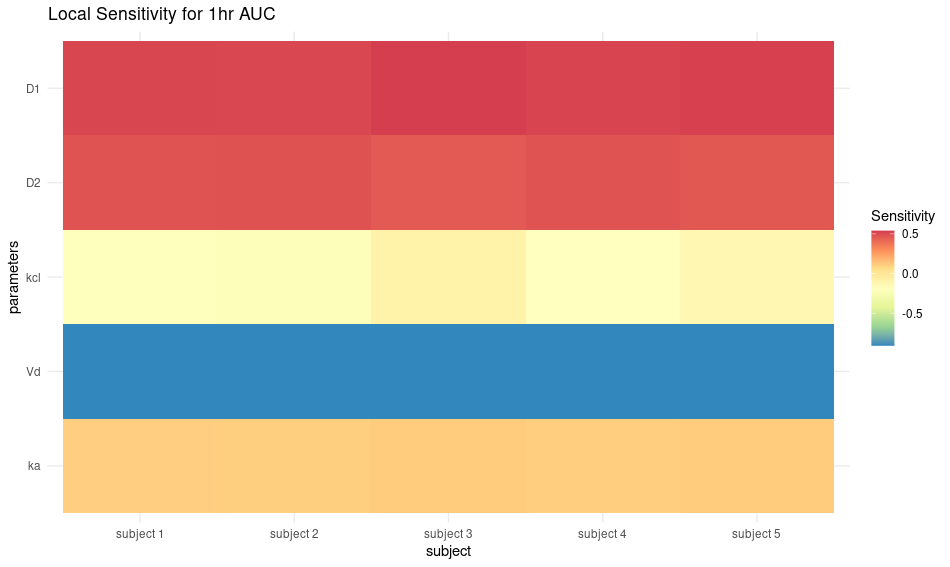
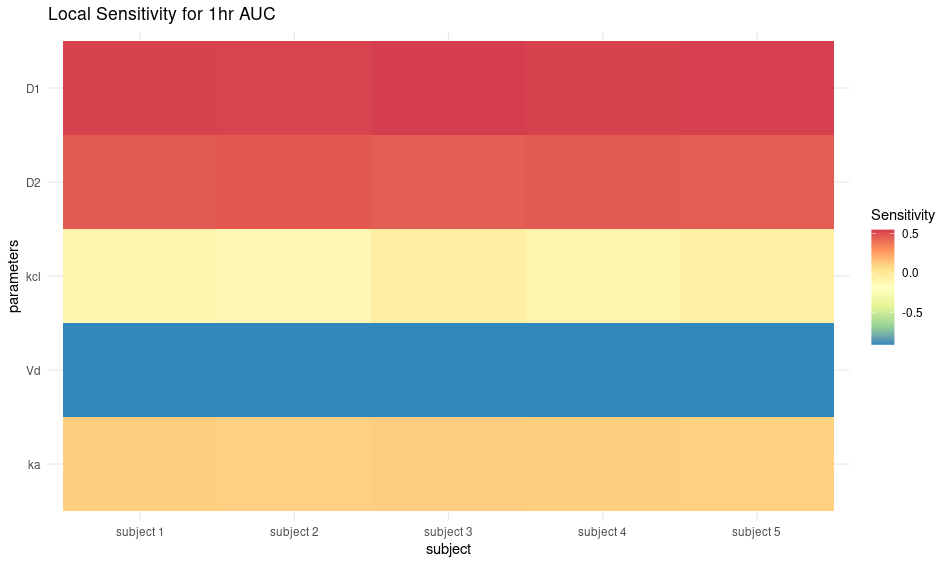
fix q2 based on updates to assignment

Changed region(s): [[0.9158, 0.3611, 0.9768, 0.4212], [0.0305, 0.3009, 0.0611, 0.331]]

diff --git a/hw/hw3/q2_script.m b/hw/hw3/q2_script.m
@@ -1,9 +1,11 @@
+%%% REQUIRES q1_script to be run
+
 %% AUC for 14 hrs
 subjects = 5;
 
 AUC14HRS = zeros(5, 5);
 for subject = 1:subjects
-    p = table_1e(:, subject);
+    p = table_1f(:, subject);
     AUC14HRS(1, subject) = local_sens(1, 175*1.1, 310, p);
     AUC14HRS(2, subject) = local_sens(1, 175, 310*1.1, p);
     p_kcl = p; p_kcl(2) = p(2)*1.1; 
@@ -18,7 +20,7 @@ FILE_NAME = 'q2a'; writematrix(AUC14HRS, FILE_NAME);
 
 AUC1HRS = zeros(5, 5);
 for subject = 1:subjects
-    p = table_1e(:, subject);
+    p = table_1f(:, subject);
     AUC1HRS(1, subject) = local_sens(2, 175*1.1, 310, p);
     AUC1HRS(2, subject) = local_sens(2, 175, 310*1.1, p);
     p_kcl = p; p_kcl(2) = p(2)*1.1; 
@@ -34,7 +36,7 @@ FILE_NAME = 'q2b'; writematrix(AUC1HRS, FILE_NAME);
 COST = zeros(5, 5);
 for subject = 1:subjects
     y0 = [0, 0, 175];
-    p = table_1e(:, subjects);
+    p = table_1f(:, subjects);
     y_subject = y_real(:, subject); 
     COST(1, subject) = local_sens(3, 175*1.1, 310, p, t_real=t_real, y_real=y_subject);
     COST(2, subject) = local_sens(3, 175, 310*1.1, p, t_real=t_real, y_real=y_subject);
